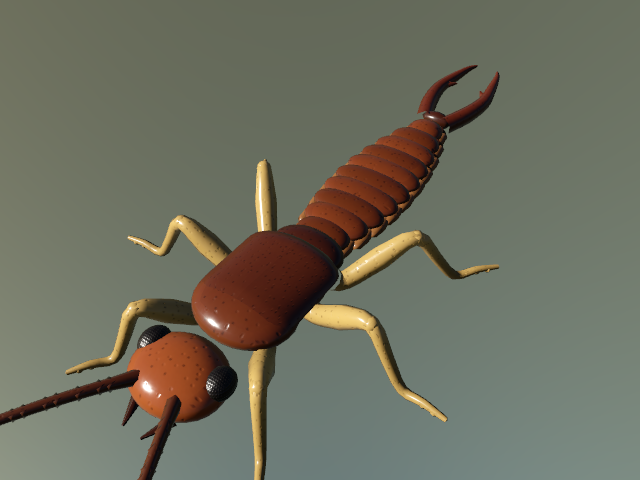
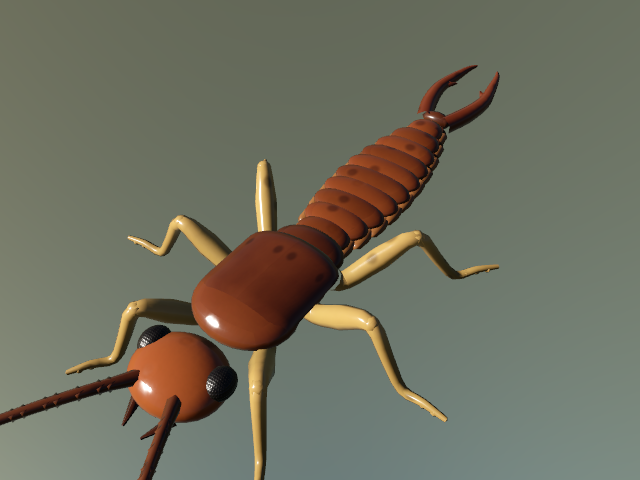
insect-earwig: earwig cuticle material, signoff (gate 0.857)

diff --git a/Sources/RealLibrary/Nature/Insects/Earwig.swift b/Sources/RealLibrary/Nature/Insects/Earwig.swift
@@ -9,9 +9,9 @@ public struct Earwig: RealArticulated {
     public static let tags = ["nature", "insect", "crawling", "articulated"]
     public static let budget = 16_000
     public static let preview = PreviewHint(azimuth: 35, elevation: 45, distance: 0.55, ground: false, studio: true)
-    public var shell: MaterialKey = "insect.chitin-chestnut:6A3216"
-    public var dark: MaterialKey = "insect.chitin-chestnut:3A1A0C"
-    public var legTone: MaterialKey = "insect.chitin:B08E50"
+    public var shell: MaterialKey = "insect.chitin-earwig:6A3216"
+    public var dark: MaterialKey = "insect.chitin-earwig:3A1A0C"
+    public var legTone: MaterialKey = "insect.chitin-earwig:B08E50"
     public init() {}
 
     public func rig(seed: UInt64) -> Rig {
@@ -19,10 +19,10 @@ public struct Earwig: RealArticulated {
         let y: Float = 0.0014
         p.height = 0.0030
         p.bodyPivot = V3(0, y, 0.003)
-        p.thorax = [.init(V3(0, y + 0.0001, 0.0043), V3(0.0016, 0.0006, 0.0013), "insect.chitin-chestnut:5E2C14"),
+        p.thorax = [.init(V3(0, y + 0.0001, 0.0043), V3(0.0016, 0.0006, 0.0013), "insect.chitin-earwig:5E2C14"),
                     .init(V3(0, y, 0.0028), V3(0.0015, 0.0006, 0.0010), shell)]
         p.neck = V3(0, y, 0.0056)
-        p.head = [.init(V3(0, y, 0.0069), V3(0.0014, 0.0007, 0.0012), "insect.chitin-chestnut:8A4420"),
+        p.head = [.init(V3(0, y, 0.0069), V3(0.0014, 0.0007, 0.0012), "insect.chitin-earwig:8A4420"),
                   .init(V3(0.0011, y + 0.0002, 0.0066), V3(0.0004, 0.0004, 0.0005), "insect.eye:140C08", mirror: true)]
         p.abdomenPivot = V3(0, y, 0.0018)
         p.abdomen = [.init(V3(0, y - 0.0001, 0.0014), V3(0.0012, 0.0005, 0.0008), dark)]
@@ -32,9 +32,9 @@ public struct Earwig: RealArticulated {
             .init(attach: V3(0.0012, y - 0.0003, 0.0018), side: 1, yaw: -50, coxa: 0.0004, femur: 0.0024, tibia: 0.0025, tarsus: 0.0015, lift: 30, radius: 0.00030),
         ]
         p.legMat = legTone
-        p.antennaMat = "insect.chitin-chestnut:4A2410"
+        p.antennaMat = "insect.chitin-earwig:4A2410"
         p.antenna = .init(base: V3(0.0006, y + 0.0003, 0.0076), dir: V3(0.45, 0.25, 0.85), length: 0.0058, radius: 0.00017, curve: 0.35, beads: 14)
-        p.elytra = .init(front: 0.0046, length: 0.0032, halfWidth: 0.0016, height: 0.0007, baseY: 0.0015, mat: "insect.chitin-chestnut:4C2210", inner: dark, atlas: false, wrap: 1.4, tipRound: 0.25)
+        p.elytra = .init(front: 0.0046, length: 0.0032, halfWidth: 0.0016, height: 0.0007, baseY: 0.0015, mat: "insect.chitin-earwig:4C2210", inner: dark, atlas: false, wrap: 1.4, tipRound: 0.25)
         p.extraParts = { rig in
             for i in 0..<10 {
                 rig.part("segment-\(i)", parent: "abdomen", pivot: V3(0, y, 0.0010 - Float(i) * 0.00072), joint: .hinge(axis: .up, -8...8, duration: 0.3))
@@ -46,7 +46,7 @@ public struct Earwig: RealArticulated {
                 let f = Float(i)
                 let z = 0.0006 - f * 0.00072
                 let w: Float = 0.00140 - 0.000030 * pow(f - 4.0, 2)
-                let tone: MaterialKey = i % 2 == 0 ? "insect.chitin-chestnut:5A2A10" : "insect.chitin-chestnut:6A3216"
+                let tone: MaterialKey = i % 2 == 0 ? "insect.chitin-earwig:5A2A10" : "insect.chitin-earwig:6A3216"
                 // Flat tergite plate with a darker rim band at the segment edge.
                 rig.add(InsectKit.blob(V3(0, y - 0.0001, z), V3(w, 0.00034, 0.00066), material: tone, sub: max(2, d.sub - 1)), to: "segment-\(i)", lods: L)
                 rig.add(InsectKit.blob(V3(0, y - 0.0002, z - 0.00050), V3(w * 0.98, 0.00026, 0.00014), material: dark, sub: 2), to: "segment-\(i)", lods: L)
@@ -56,7 +56,7 @@ public struct Earwig: RealArticulated {
                 let f = Float(i), z = 0.0006 - f * 0.00072
                 let w: Float = 0.00140 - 0.000030 * pow(f - 4.0, 2)
                 for side: Float in [1, -1] {
-                    rig.add(InsectKit.blob(V3(side * w * 0.9, y - 0.0003, z), V3(0.00022, 0.00018, 0.00060), material: "insect.chitin-chestnut:8A5A30", sub: 2), to: "segment-\(i)", lods: L)
+                    rig.add(InsectKit.blob(V3(side * w * 0.9, y - 0.0003, z), V3(0.00022, 0.00018, 0.00060), material: "insect.chitin-earwig:8A5A30", sub: 2), to: "segment-\(i)", lods: L)
                 }
             }
             // Forceps: broad base plate, thick curved arms with inward tips and inner teeth.
@@ -64,9 +64,9 @@ public struct Earwig: RealArticulated {
             for side: Float in [1, -1] {
                 let pts = [V3(side * 0.00040, y - 0.0001, -0.0066), V3(side * 0.00075, y - 0.0001, -0.0076), V3(side * 0.00095, y - 0.0001, -0.0088),
                            V3(side * 0.00080, y - 0.0001, -0.0099), V3(side * 0.00062, y - 0.0001, -0.0108), V3(side * 0.00044, y - 0.0001, -0.0112)]
-                rig.add(InsectKit.limb(pts, radii: [0.00034, 0.00032, 0.00026, 0.00020, 0.00012, 0.00004], material: "insect.chitin-chestnut:5A2410", sides: 6, per: 3), to: "segment-9", lods: L)
+                rig.add(InsectKit.limb(pts, radii: [0.00034, 0.00032, 0.00026, 0.00020, 0.00012, 0.00004], material: "insect.chitin-earwig:5A2410", sides: 6, per: 3), to: "segment-9", lods: L)
                 if d.lod == 0 {
-                    rig.add(InsectKit.limb([V3(side * 0.00078, y - 0.0001, -0.0092), V3(side * 0.00050, y - 0.0001, -0.0095)], radii: [0.00016, 0.00003], material: "insect.chitin-chestnut:5A2410", sides: 4, per: 1), to: "segment-9", lods: L)
+                    rig.add(InsectKit.limb([V3(side * 0.00078, y - 0.0001, -0.0092), V3(side * 0.00050, y - 0.0001, -0.0095)], radii: [0.00016, 0.00003], material: "insect.chitin-earwig:5A2410", sides: 4, per: 1), to: "segment-9", lods: L)
                     rig.add(InsectKit.limb([V3(side * 0.00060, y - 0.0003, 0.0078), V3(side * 0.00030, y - 0.0003, 0.0086)], radii: [0.00018, 0.00004], material: dark, sides: 4, per: 1), to: "head", lods: L)
                 }
             }

diff --git a/Sources/RealMaterials/Library/Insect.swift b/Sources/RealMaterials/Library/Insect.swift
@@ -40,6 +40,7 @@ public extension MaterialLibrary {
             chitin("insect.chitin", 0x1C1916, 0x2C2620, pits: 30, shift: 0.15, rough: 0.22, seed: 1101),
             chitin("insect.chitin-matte", 0x1E1C1A, 0x2A2622, pits: 40, shift: 0.1, rough: 0.62, coat: 0, seed: 1102),
             chitin("insect.chitin-chestnut", 0x5E2412, 0x2E120A, pits: 26, shift: 0.35, rough: 0.2, seed: 1103),
+            chitin("insect.chitin-earwig", 0x5A2A12, 0x7A4020, pits: 5, shift: 0.3, rough: 0.14, coat: 0.9, seed: 1137),
             chitin("insect.chitin-metallic", 0x2AA040, 0xC8A830, pits: 36, shift: 0.7, rough: 0.2, metal: 0.85, coat: 0.3, seed: 1104),
             chitin("insect.chitin-soft", 0x7FA845, 0x5E8A34, pits: 12, shift: 0.3, rough: 0.48, coat: 0.2, seed: 1105),
             MaterialSpec(key: "insect.fur", program: .insectFur).with {

diff --git a/CATALOG.md b/CATALOG.md
@@ -103,7 +103,7 @@ Generated by `swift run -q realityhd catalog`. Do not edit by hand.
 | [`insect-eyed-click-beetle`](docs/assets/insect-eyed-click-beetle.png) | nature, insect, crawling, flying, articulated | 15982 / 3448 | 16000 | `insect.chitin-matte:1A1A1C` `insect.chitin-matte:E6E6E0` `insect.chitin-matte:070708` `insect.chitin-matte:B4B4AE` `insect.eye` `insect.chitin-matte:1E1E20` `insect.chitin-matte:2A241E` `insect.chitin-matte:26262A` `insect.chitin-matte:343438` `insect.membrane-amber` `insect.veins-beetle` | realityhd | Eyed click beetle, 35 mm: mottled black body with silver speckle, white-ringed pronotum eyespots, comb antennae; articulated legs, elytra, wings. |
 | [`insect-goliath-beetle`](docs/assets/insect-goliath-beetle.png) | nature, insect, crawling, flying, articulated | 12876 / 2573 | 16000 | `insect.chitin-matte:EDE8DA` `insect.chitin:171310` `insect.pronotum-goliath` `insect.chitin:2A1A12` `insect.eye` `insect.chitin-matte:241812` `insect.elytra-goliath` `insect.membrane-amber` `insect.veins-beetle` | realityhd | Male goliath beetle, 8.5 cm: striped white-and-black pronotum, milky elytra, Y-horn, thick spined legs; articulated legs, elytra, wings. |
 | [`insect-tiger-beetle`](docs/assets/insect-tiger-beetle.png) | nature, insect, crawling, flying, articulated | 10828 / 2860 | 15000 | `insect.chitin-metallic:2A8A40` `insect.chitin-metallic:1C9A58` `insect.chitin-matte:B8B4A4` `insect.chitin-matte:E4E0D0` `insect.eye:2A1E14` `insect.chitin-matte:E6E0CC` `insect.chitin-matte:B8A878` `insect.chitin-matte:2A2418` `insect.chitin-metallic:4A5A28` `insect.chitin-metallic:6A4A28` `insect.elytra-tiger` `insect.membrane-smoky` `insect.veins-beetle` | realityhd | Six-spotted tiger beetle, 12 mm: metallic emerald elytra with white spots, bulging eyes, toothed mandibles, long legs; articulated legs, elytra, wings. |
-| [`insect-earwig`](docs/assets/insect-earwig.png) | nature, insect, crawling, articulated | 14984 / 4958 | 16000 | `insect.chitin-chestnut:5E2C14` `insect.chitin-chestnut:6A3216` `insect.chitin-chestnut:8A4420` `insect.eye:140C08` `insect.chitin-chestnut:3A1A0C` `insect.chitin:B08E50` `insect.chitin-chestnut:4C2210` `insect.chitin-chestnut:4A2410` `insect.chitin-chestnut:5A2A10` `insect.chitin-chestnut:8A5A30` `insect.chitin-chestnut:5A2410` | realityhd | Common earwig, 14 mm: flat chestnut body, short elytra over 10 abdominal segments, curved forceps, pale legs, beaded antennae; articulated legs, antennae, abdomen. |
+| [`insect-earwig`](docs/assets/insect-earwig.png) | nature, insect, crawling, articulated | 14984 / 4958 | 16000 | `insect.chitin-earwig:5E2C14` `insect.chitin-earwig:6A3216` `insect.chitin-earwig:8A4420` `insect.eye:140C08` `insect.chitin-earwig:3A1A0C` `insect.chitin-earwig:B08E50` `insect.chitin-earwig:4C2210` `insect.chitin-earwig:4A2410` `insect.chitin-earwig:5A2A10` `insect.chitin-earwig:8A5A30` `insect.chitin-earwig:5A2410` | realityhd | Common earwig, 14 mm: flat chestnut body, short elytra over 10 abdominal segments, curved forceps, pale legs, beaded antennae; articulated legs, antennae, abdomen. |
 
 ## Props
 
@@ -2105,6 +2105,7 @@ Keys accept a hex tint suffix, e.g. `metal.painted:1F4E8C`.
 | `insect.chitin` | chitin | 0.008 | 512 | opaque | - |  |
 | `insect.chitin-matte` | chitin | 0.008 | 512 | opaque | - |  |
 | `insect.chitin-chestnut` | chitin | 0.008 | 512 | opaque | - |  |
+| `insect.chitin-earwig` | chitin | 0.008 | 512 | opaque | - |  |
 | `insect.chitin-metallic` | chitin | 0.008 | 512 | opaque | - | metallic map |
 | `insect.chitin-soft` | chitin | 0.008 | 512 | opaque | - |  |
 | `insect.fur` | insectFur | 0.004 | 512 | opaque | - |  |
